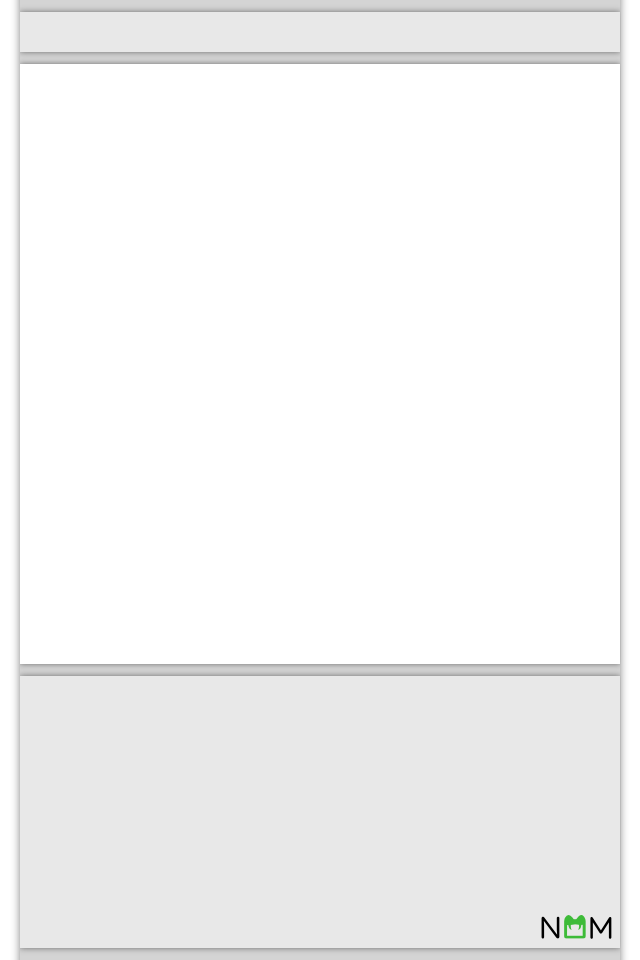
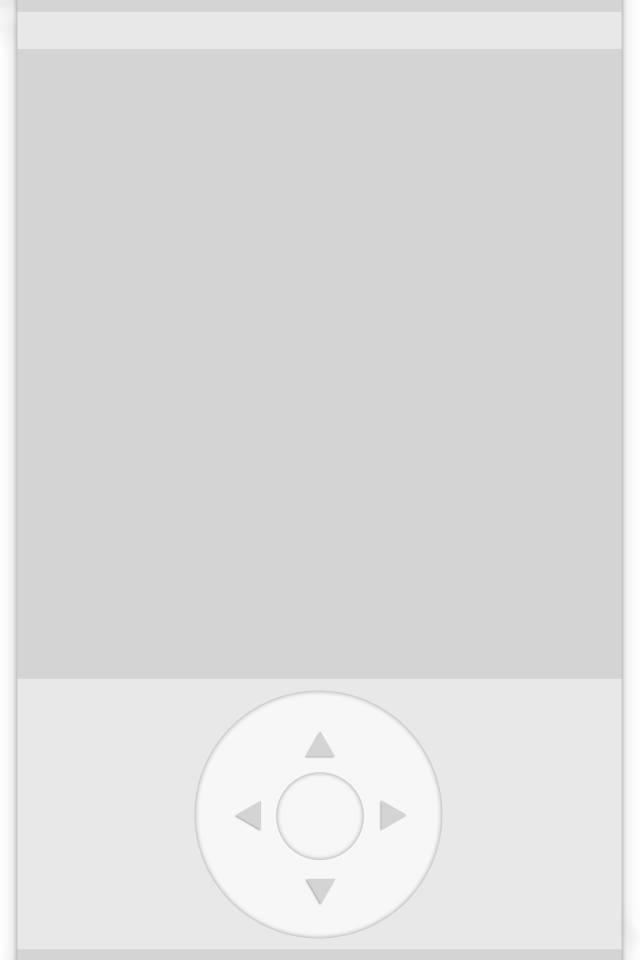
change game screen

diff --git a/Nom/GameBackgroundLayer.m b/Nom/GameBackgroundLayer.m
@@ -36,11 +36,6 @@
         glEnable(GL_TEXTURE_2D);
         [texture end];
         
-        CCSprite *control;
-        control = [CCSprite spriteWithFile: @"Control.png"];
-        [control setPosition: CGPointMake (screenSize.width/2, 74)];
-        [self addChild: control z: 1];
-        
         CCSprite *bg;
         bg = [CCSprite spriteWithFile: @"GameBackground.png"];
         [bg setPosition: CGPointMake (screenSize.width/2, screenSize.height/2)];
